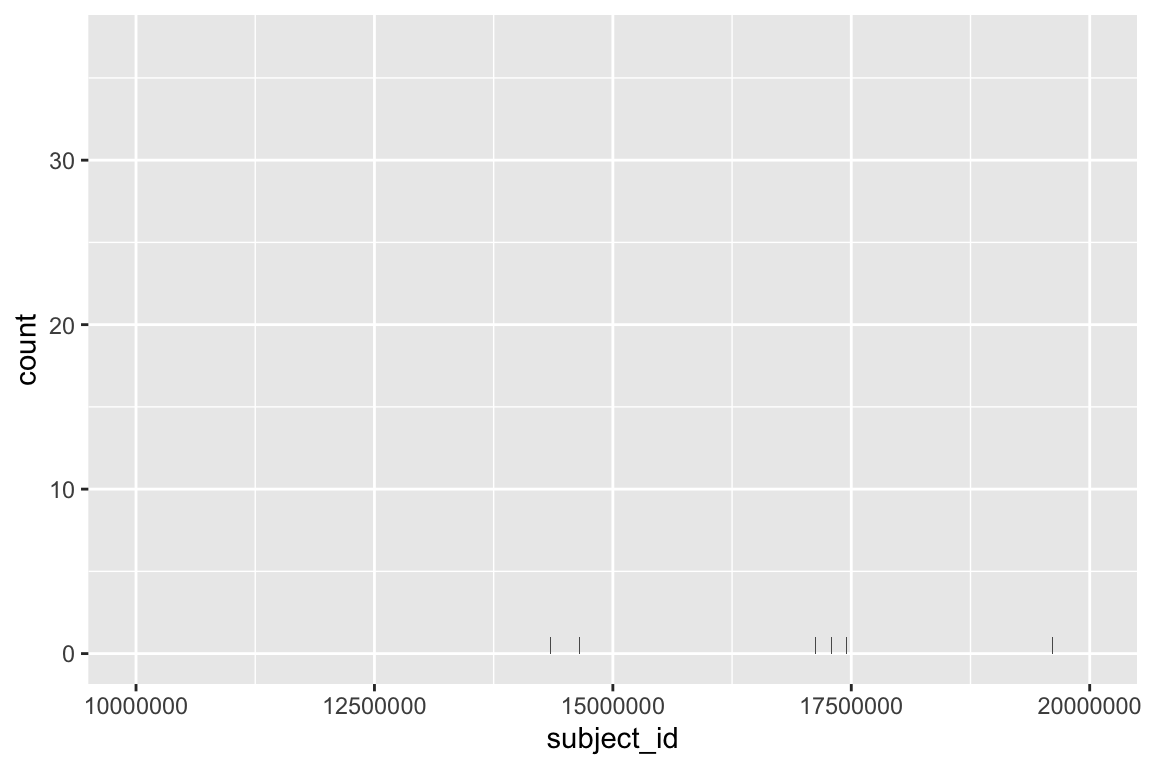
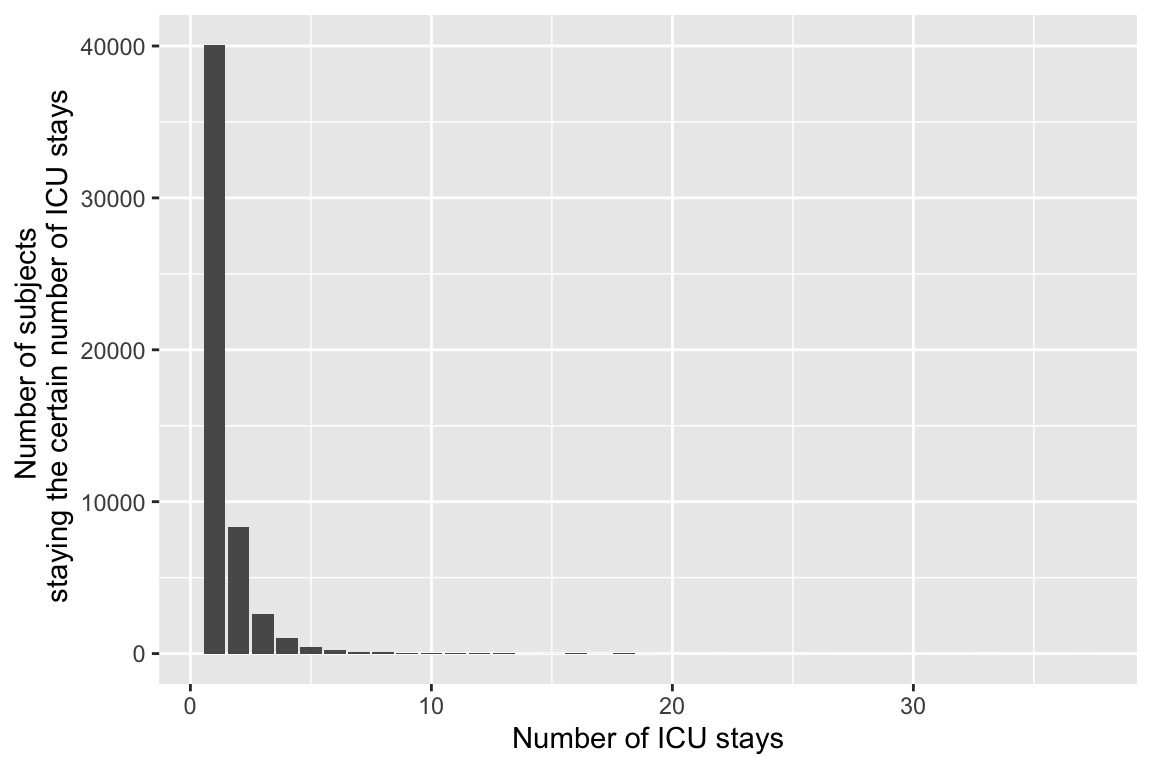
hw2 v2.1 Updating html and files folder

diff --git a/hw2/hw2-qmd.html b/hw2/hw2-qmd.html
@@ -255,24 +255,24 @@ loaded via a namespace (and not attached):
 <div class="sourceCode cell-code" id="cb13"><pre class="sourceCode r code-with-copy"><code class="sourceCode r"><span id="cb13-1"><a href="#cb13-1" aria-hidden="true" tabindex="-1"></a><span class="fu">system.time</span>(ad1 <span class="ot">&lt;-</span> <span class="fu">read.csv</span>(<span class="st">"~/mimic/core/admissions.csv.gz"</span>))</span></code><button title="Copy to Clipboard" class="code-copy-button"><i class="bi"></i></button></pre></div>
 <div class="cell-output cell-output-stdout">
 <pre><code>   user  system elapsed 
-  9.618   0.248   9.954 </code></pre>
+ 10.627   0.255  10.927 </code></pre>
 </div>
 </div>
 <div class="cell" data-layout-align="center">
 <div class="sourceCode cell-code" id="cb15"><pre class="sourceCode r code-with-copy"><code class="sourceCode r"><span id="cb15-1"><a href="#cb15-1" aria-hidden="true" tabindex="-1"></a><span class="fu">system.time</span>(ad2 <span class="ot">&lt;-</span> <span class="fu">read_csv</span>(<span class="st">"~/mimic/core/admissions.csv.gz"</span>))</span></code><button title="Copy to Clipboard" class="code-copy-button"><i class="bi"></i></button></pre></div>
 <div class="cell-output cell-output-stdout">
 <pre><code>   user  system elapsed 
-  2.554   0.616   1.225 </code></pre>
+  3.835   0.988   1.836 </code></pre>
 </div>
 </div>
 <div class="cell" data-layout-align="center">
 <div class="sourceCode cell-code" id="cb17"><pre class="sourceCode r code-with-copy"><code class="sourceCode r"><span id="cb17-1"><a href="#cb17-1" aria-hidden="true" tabindex="-1"></a><span class="fu">system.time</span>(ad3 <span class="ot">&lt;-</span> <span class="fu">fread</span>(<span class="st">"~/mimic/core/admissions.csv.gz"</span>))</span></code><button title="Copy to Clipboard" class="code-copy-button"><i class="bi"></i></button></pre></div>
 <div class="cell-output cell-output-stdout">
 <pre><code>   user  system elapsed 
-  0.806   0.266   1.110 </code></pre>
+  1.077   0.387   1.511 </code></pre>
 </div>
 </div>
-<p><code>fread</code> is the fastest function. “Is there difference in the (default) parsed data types?”</p>
+<p><code>fread</code> is the fastest function. “Is there difference in the (default) parsed data types?” This question means if the data type of each column is different when the dataset is imported through different methods.</p>
 </section>
 <section id="q2.-icu-stays" class="level2" data-number="2">
 <h2 data-number="2" class="anchored" data-anchor-id="q2.-icu-stays"><span class="header-section-number">2</span> Q2. ICU stays</h2>
@@ -330,12 +330,38 @@ loaded via a namespace (and not attached):
 <li>Summarize the number of ICU stays per <code>subject_id</code> by graphs.</li>
 </ol>
 <div class="cell" data-layout-align="center">
-<div class="sourceCode cell-code" id="cb26"><pre class="sourceCode r code-with-copy"><code class="sourceCode r"><span id="cb26-1"><a href="#cb26-1" aria-hidden="true" tabindex="-1"></a><span class="fu">ggplot</span>(<span class="at">data =</span> icustays_tble) <span class="sc">+</span> </span>
-<span id="cb26-2"><a href="#cb26-2" aria-hidden="true" tabindex="-1"></a>  <span class="fu">geom_bar</span>(<span class="at">mapping =</span> <span class="fu">aes</span>(<span class="at">x =</span> subject_id))</span></code><button title="Copy to Clipboard" class="code-copy-button"><i class="bi"></i></button></pre></div>
+<div class="sourceCode cell-code" id="cb26"><pre class="sourceCode r code-with-copy"><code class="sourceCode r"><span id="cb26-1"><a href="#cb26-1" aria-hidden="true" tabindex="-1"></a>stays <span class="ot">&lt;-</span> icustays_tble <span class="sc">%&gt;%</span></span>
+<span id="cb26-2"><a href="#cb26-2" aria-hidden="true" tabindex="-1"></a>  <span class="fu">group_by</span>(subject_id) <span class="sc">%&gt;%</span></span>
+<span id="cb26-3"><a href="#cb26-3" aria-hidden="true" tabindex="-1"></a>  <span class="fu">summarize</span>(<span class="at">stay_count =</span> <span class="fu">n</span>()) </span>
+<span id="cb26-4"><a href="#cb26-4" aria-hidden="true" tabindex="-1"></a></span>
+<span id="cb26-5"><a href="#cb26-5" aria-hidden="true" tabindex="-1"></a><span class="fu">ggplot</span>(<span class="at">data =</span> stays) <span class="sc">+</span> </span>
+<span id="cb26-6"><a href="#cb26-6" aria-hidden="true" tabindex="-1"></a>  <span class="fu">geom_bar</span>(<span class="at">mapping =</span> <span class="fu">aes</span>(<span class="at">x =</span> stay_count)) <span class="sc">+</span></span>
+<span id="cb26-7"><a href="#cb26-7" aria-hidden="true" tabindex="-1"></a>  <span class="fu">xlab</span>(<span class="st">"Number of ICU stays"</span>) <span class="sc">+</span></span>
+<span id="cb26-8"><a href="#cb26-8" aria-hidden="true" tabindex="-1"></a>  <span class="fu">ylab</span>(<span class="st">"Number of subjects </span><span class="sc">\n</span><span class="st"> staying the certain number of ICU stays"</span>) </span></code><button title="Copy to Clipboard" class="code-copy-button"><i class="bi"></i></button></pre></div>
 <div class="cell-output-display">
 <div class="quarto-figure quarto-figure-center">
 <figure class="figure">
 <p><img src="hw2-qmd_files/figure-html/unnamed-chunk-11-1.png" class="img-fluid figure-img" width="576"></p>
+</figure>
+</div>
+</div>
+</div>
+<p>Since the majority of subjects only had one ICU stay, it is hard to see those with more stay on the graph.</p>
+<p>I thus also tried showing the actual numbers of subjects having certain number of ICU stays on top of each bar in the histogram, but the result is not very pretty either (but at least we can see those having a large number of stays):</p>
+<div class="cell" data-layout-align="center">
+<div class="sourceCode cell-code" id="cb27"><pre class="sourceCode r code-with-copy"><code class="sourceCode r"><span id="cb27-1"><a href="#cb27-1" aria-hidden="true" tabindex="-1"></a>count <span class="ot">&lt;-</span> stays <span class="sc">%&gt;%</span> </span>
+<span id="cb27-2"><a href="#cb27-2" aria-hidden="true" tabindex="-1"></a>  <span class="fu">group_by</span>(stay_count) <span class="sc">%&gt;%</span></span>
+<span id="cb27-3"><a href="#cb27-3" aria-hidden="true" tabindex="-1"></a>  <span class="fu">summarize</span>(<span class="at">subject_count =</span> <span class="fu">n</span>())</span>
+<span id="cb27-4"><a href="#cb27-4" aria-hidden="true" tabindex="-1"></a></span>
+<span id="cb27-5"><a href="#cb27-5" aria-hidden="true" tabindex="-1"></a><span class="fu">ggplot</span>(count, <span class="fu">aes</span>(<span class="at">x =</span> stay_count, <span class="at">y =</span> subject_count)) <span class="sc">+</span></span>
+<span id="cb27-6"><a href="#cb27-6" aria-hidden="true" tabindex="-1"></a>  <span class="fu">geom_bar</span>(<span class="at">stat =</span> <span class="st">"identity"</span>) <span class="sc">+</span></span>
+<span id="cb27-7"><a href="#cb27-7" aria-hidden="true" tabindex="-1"></a>  <span class="fu">geom_text</span>(<span class="fu">aes</span>(<span class="at">label =</span> subject_count, <span class="at">vjust =</span> <span class="sc">-</span><span class="fl">0.25</span>)) <span class="sc">+</span></span>
+<span id="cb27-8"><a href="#cb27-8" aria-hidden="true" tabindex="-1"></a>  <span class="fu">xlab</span>(<span class="st">"Number of ICU stays"</span>) <span class="sc">+</span></span>
+<span id="cb27-9"><a href="#cb27-9" aria-hidden="true" tabindex="-1"></a>  <span class="fu">ylab</span>(<span class="st">"Number of subjects </span><span class="sc">\n</span><span class="st"> staying the certain number of ICU stays"</span>)</span></code><button title="Copy to Clipboard" class="code-copy-button"><i class="bi"></i></button></pre></div>
+<div class="cell-output-display">
+<div class="quarto-figure quarto-figure-center">
+<figure class="figure">
+<p><img src="hw2-qmd_files/figure-html/unnamed-chunk-12-1.png" class="img-fluid figure-img" width="576"></p>
 </figure>
 </div>
 </div>
@@ -348,14 +374,14 @@ loaded via a namespace (and not attached):
 <h2 data-number="3" class="anchored" data-anchor-id="q3.-admission-data"><span class="header-section-number">3</span> Q3. <code>admission</code> data</h2>
 <p>Information of the patients admitted into hospital is available in <code>admissions.csv.gz</code>. See <a href="https://mimic.mit.edu/docs/iv/modules/core/admissions/" class="uri">https://mimic.mit.edu/docs/iv/modules/core/admissions/</a> for details of each field in this file. The first 10 lines are</p>
 <div class="cell" data-layout-align="center">
-<div class="sourceCode cell-code" id="cb27"><pre class="sourceCode r code-with-copy"><code class="sourceCode r"><span id="cb27-1"><a href="#cb27-1" aria-hidden="true" tabindex="-1"></a><span class="fu">system</span>(</span>
-<span id="cb27-2"><a href="#cb27-2" aria-hidden="true" tabindex="-1"></a>  <span class="fu">str_c</span>(</span>
-<span id="cb27-3"><a href="#cb27-3" aria-hidden="true" tabindex="-1"></a>    <span class="st">"zcat &lt; "</span>, </span>
-<span id="cb27-4"><a href="#cb27-4" aria-hidden="true" tabindex="-1"></a>    <span class="fu">str_c</span>(mimic_path, <span class="st">"/core/admissions.csv.gz"</span>), </span>
-<span id="cb27-5"><a href="#cb27-5" aria-hidden="true" tabindex="-1"></a>    <span class="st">" | head"</span></span>
-<span id="cb27-6"><a href="#cb27-6" aria-hidden="true" tabindex="-1"></a>    ), </span>
-<span id="cb27-7"><a href="#cb27-7" aria-hidden="true" tabindex="-1"></a>  <span class="at">intern =</span> <span class="cn">TRUE</span></span>
-<span id="cb27-8"><a href="#cb27-8" aria-hidden="true" tabindex="-1"></a>)</span></code><button title="Copy to Clipboard" class="code-copy-button"><i class="bi"></i></button></pre></div>
+<div class="sourceCode cell-code" id="cb28"><pre class="sourceCode r code-with-copy"><code class="sourceCode r"><span id="cb28-1"><a href="#cb28-1" aria-hidden="true" tabindex="-1"></a><span class="fu">system</span>(</span>
+<span id="cb28-2"><a href="#cb28-2" aria-hidden="true" tabindex="-1"></a>  <span class="fu">str_c</span>(</span>
+<span id="cb28-3"><a href="#cb28-3" aria-hidden="true" tabindex="-1"></a>    <span class="st">"zcat &lt; "</span>, </span>
+<span id="cb28-4"><a href="#cb28-4" aria-hidden="true" tabindex="-1"></a>    <span class="fu">str_c</span>(mimic_path, <span class="st">"/core/admissions.csv.gz"</span>), </span>
+<span id="cb28-5"><a href="#cb28-5" aria-hidden="true" tabindex="-1"></a>    <span class="st">" | head"</span></span>
+<span id="cb28-6"><a href="#cb28-6" aria-hidden="true" tabindex="-1"></a>    ), </span>
+<span id="cb28-7"><a href="#cb28-7" aria-hidden="true" tabindex="-1"></a>  <span class="at">intern =</span> <span class="cn">TRUE</span></span>
+<span id="cb28-8"><a href="#cb28-8" aria-hidden="true" tabindex="-1"></a>)</span></code><button title="Copy to Clipboard" class="code-copy-button"><i class="bi"></i></button></pre></div>
 <div class="cell-output cell-output-stdout">
 <pre><code> [1] "subject_id,hadm_id,admittime,dischtime,deathtime,admission_type,admission_location,discharge_location,insurance,language,marital_status,ethnicity,edregtime,edouttime,hospital_expire_flag"
  [2] "14679932,21038362,2139-09-26 14:16:00,2139-09-28 11:30:00,,ELECTIVE,,HOME,Other,ENGLISH,SINGLE,UNKNOWN,,,0"                                                                                
@@ -370,7 +396,12 @@ loaded via a namespace (and not attached):
 </div>
 </div>
 <ol type="1">
-<li><p>Import <code>admissions.csv.gz</code> as a tibble <code>admissions_tble</code>.</p></li>
+<li>Import <code>admissions.csv.gz</code> as a tibble <code>admissions_tble</code>.</li>
+</ol>
+<div class="cell" data-layout-align="center">
+<div class="sourceCode cell-code" id="cb30"><pre class="sourceCode r code-with-copy"><code class="sourceCode r"><span id="cb30-1"><a href="#cb30-1" aria-hidden="true" tabindex="-1"></a>admissions_tble <span class="ot">&lt;-</span> <span class="fu">read_csv</span>(<span class="st">"~/mimic/core/admissions.csv.gz"</span>)</span></code><button title="Copy to Clipboard" class="code-copy-button"><i class="bi"></i></button></pre></div>
+</div>
+<ol start="2" type="1">
 <li><p>Let’s only keep the admissions that have a match in <code>icustays_tble</code> according to <code>subject_id</code> and <code>hadmi_id</code>.</p></li>
 <li><p>Summarize the following variables by graphics.</p>
 <ul>
@@ -394,14 +425,14 @@ loaded via a namespace (and not attached):
 <h2 data-number="4" class="anchored" data-anchor-id="q4.-patients-data"><span class="header-section-number">4</span> Q4. <code>patients</code> data</h2>
 <p>Patient information is available in <code>patients.csv.gz</code>. See <a href="https://mimic.mit.edu/docs/iv/modules/core/patients/" class="uri">https://mimic.mit.edu/docs/iv/modules/core/patients/</a> for details of each field in this file. The first 10 lines are</p>
 <div class="cell" data-layout-align="center">
-<div class="sourceCode cell-code" id="cb29"><pre class="sourceCode r code-with-copy"><code class="sourceCode r"><span id="cb29-1"><a href="#cb29-1" aria-hidden="true" tabindex="-1"></a><span class="fu">system</span>(</span>
-<span id="cb29-2"><a href="#cb29-2" aria-hidden="true" tabindex="-1"></a>  <span class="fu">str_c</span>(</span>
-<span id="cb29-3"><a href="#cb29-3" aria-hidden="true" tabindex="-1"></a>    <span class="st">"zcat &lt; "</span>, </span>
-<span id="cb29-4"><a href="#cb29-4" aria-hidden="true" tabindex="-1"></a>    <span class="fu">str_c</span>(mimic_path, <span class="st">"/core/patients.csv.gz"</span>), </span>
-<span id="cb29-5"><a href="#cb29-5" aria-hidden="true" tabindex="-1"></a>    <span class="st">" | head"</span></span>
-<span id="cb29-6"><a href="#cb29-6" aria-hidden="true" tabindex="-1"></a>    ), </span>
-<span id="cb29-7"><a href="#cb29-7" aria-hidden="true" tabindex="-1"></a>  <span class="at">intern =</span> <span class="cn">TRUE</span></span>
-<span id="cb29-8"><a href="#cb29-8" aria-hidden="true" tabindex="-1"></a>)</span></code><button title="Copy to Clipboard" class="code-copy-button"><i class="bi"></i></button></pre></div>
+<div class="sourceCode cell-code" id="cb31"><pre class="sourceCode r code-with-copy"><code class="sourceCode r"><span id="cb31-1"><a href="#cb31-1" aria-hidden="true" tabindex="-1"></a><span class="fu">system</span>(</span>
+<span id="cb31-2"><a href="#cb31-2" aria-hidden="true" tabindex="-1"></a>  <span class="fu">str_c</span>(</span>
+<span id="cb31-3"><a href="#cb31-3" aria-hidden="true" tabindex="-1"></a>    <span class="st">"zcat &lt; "</span>, </span>
+<span id="cb31-4"><a href="#cb31-4" aria-hidden="true" tabindex="-1"></a>    <span class="fu">str_c</span>(mimic_path, <span class="st">"/core/patients.csv.gz"</span>), </span>
+<span id="cb31-5"><a href="#cb31-5" aria-hidden="true" tabindex="-1"></a>    <span class="st">" | head"</span></span>
+<span id="cb31-6"><a href="#cb31-6" aria-hidden="true" tabindex="-1"></a>    ), </span>
+<span id="cb31-7"><a href="#cb31-7" aria-hidden="true" tabindex="-1"></a>  <span class="at">intern =</span> <span class="cn">TRUE</span></span>
+<span id="cb31-8"><a href="#cb31-8" aria-hidden="true" tabindex="-1"></a>)</span></code><button title="Copy to Clipboard" class="code-copy-button"><i class="bi"></i></button></pre></div>
 <div class="cell-output cell-output-stdout">
 <pre><code> [1] "subject_id,gender,anchor_age,anchor_year,anchor_year_group,dod"
  [2] "10000048,F,23,2126,2008 - 2010,"                               
@@ -424,14 +455,14 @@ loaded via a namespace (and not attached):
 <h2 data-number="5" class="anchored" data-anchor-id="q5.-lab-results"><span class="header-section-number">5</span> Q5. Lab results</h2>
 <p><code>labevents.csv.gz</code> (<a href="https://mimic.mit.edu/docs/iv/modules/hosp/labevents/" class="uri">https://mimic.mit.edu/docs/iv/modules/hosp/labevents/</a>) contains all laboratory measurements for patients. The first 10 lines are</p>
 <div class="cell" data-layout-align="center">
-<div class="sourceCode cell-code" id="cb31"><pre class="sourceCode r code-with-copy"><code class="sourceCode r"><span id="cb31-1"><a href="#cb31-1" aria-hidden="true" tabindex="-1"></a><span class="fu">system</span>(</span>
-<span id="cb31-2"><a href="#cb31-2" aria-hidden="true" tabindex="-1"></a>  <span class="fu">str_c</span>(</span>
-<span id="cb31-3"><a href="#cb31-3" aria-hidden="true" tabindex="-1"></a>    <span class="st">"zcat &lt; "</span>, </span>
-<span id="cb31-4"><a href="#cb31-4" aria-hidden="true" tabindex="-1"></a>    <span class="fu">str_c</span>(mimic_path, <span class="st">"/hosp/labevents.csv.gz"</span>), </span>
-<span id="cb31-5"><a href="#cb31-5" aria-hidden="true" tabindex="-1"></a>    <span class="st">" | head"</span></span>
-<span id="cb31-6"><a href="#cb31-6" aria-hidden="true" tabindex="-1"></a>    ), </span>
-<span id="cb31-7"><a href="#cb31-7" aria-hidden="true" tabindex="-1"></a>  <span class="at">intern =</span> <span class="cn">TRUE</span></span>
-<span id="cb31-8"><a href="#cb31-8" aria-hidden="true" tabindex="-1"></a>)</span></code><button title="Copy to Clipboard" class="code-copy-button"><i class="bi"></i></button></pre></div>
+<div class="sourceCode cell-code" id="cb33"><pre class="sourceCode r code-with-copy"><code class="sourceCode r"><span id="cb33-1"><a href="#cb33-1" aria-hidden="true" tabindex="-1"></a><span class="fu">system</span>(</span>
+<span id="cb33-2"><a href="#cb33-2" aria-hidden="true" tabindex="-1"></a>  <span class="fu">str_c</span>(</span>
+<span id="cb33-3"><a href="#cb33-3" aria-hidden="true" tabindex="-1"></a>    <span class="st">"zcat &lt; "</span>, </span>
+<span id="cb33-4"><a href="#cb33-4" aria-hidden="true" tabindex="-1"></a>    <span class="fu">str_c</span>(mimic_path, <span class="st">"/hosp/labevents.csv.gz"</span>), </span>
+<span id="cb33-5"><a href="#cb33-5" aria-hidden="true" tabindex="-1"></a>    <span class="st">" | head"</span></span>
+<span id="cb33-6"><a href="#cb33-6" aria-hidden="true" tabindex="-1"></a>    ), </span>
+<span id="cb33-7"><a href="#cb33-7" aria-hidden="true" tabindex="-1"></a>  <span class="at">intern =</span> <span class="cn">TRUE</span></span>
+<span id="cb33-8"><a href="#cb33-8" aria-hidden="true" tabindex="-1"></a>)</span></code><button title="Copy to Clipboard" class="code-copy-button"><i class="bi"></i></button></pre></div>
 <div class="cell-output cell-output-stdout">
 <pre><code> [1] "labevent_id,subject_id,hadm_id,specimen_id,itemid,charttime,storetime,value,valuenum,valueuom,ref_range_lower,ref_range_upper,flag,priority,comments"
  [2] "670,10000048,,6448755,51484,2126-11-22 19:20:00,2126-11-22 20:07:00,150,150,mg/dL,,,,STAT,"                                                          
@@ -447,14 +478,14 @@ loaded via a namespace (and not attached):
 </div>
 <p><code>d_labitems.csv.gz</code> is the dictionary of lab measurements.</p>
 <div class="cell" data-layout-align="center">
-<div class="sourceCode cell-code" id="cb33"><pre class="sourceCode r code-with-copy"><code class="sourceCode r"><span id="cb33-1"><a href="#cb33-1" aria-hidden="true" tabindex="-1"></a><span class="fu">system</span>(</span>
-<span id="cb33-2"><a href="#cb33-2" aria-hidden="true" tabindex="-1"></a>  <span class="fu">str_c</span>(</span>
-<span id="cb33-3"><a href="#cb33-3" aria-hidden="true" tabindex="-1"></a>    <span class="st">"zcat &lt; "</span>, </span>
-<span id="cb33-4"><a href="#cb33-4" aria-hidden="true" tabindex="-1"></a>    <span class="fu">str_c</span>(mimic_path, <span class="st">"/hosp/d_labitems.csv.gz"</span>), </span>
-<span id="cb33-5"><a href="#cb33-5" aria-hidden="true" tabindex="-1"></a>    <span class="st">" | head"</span></span>
-<span id="cb33-6"><a href="#cb33-6" aria-hidden="true" tabindex="-1"></a>    ), </span>
-<span id="cb33-7"><a href="#cb33-7" aria-hidden="true" tabindex="-1"></a>  <span class="at">intern =</span> <span class="cn">TRUE</span></span>
-<span id="cb33-8"><a href="#cb33-8" aria-hidden="true" tabindex="-1"></a>)</span></code><button title="Copy to Clipboard" class="code-copy-button"><i class="bi"></i></button></pre></div>
+<div class="sourceCode cell-code" id="cb35"><pre class="sourceCode r code-with-copy"><code class="sourceCode r"><span id="cb35-1"><a href="#cb35-1" aria-hidden="true" tabindex="-1"></a><span class="fu">system</span>(</span>
+<span id="cb35-2"><a href="#cb35-2" aria-hidden="true" tabindex="-1"></a>  <span class="fu">str_c</span>(</span>
+<span id="cb35-3"><a href="#cb35-3" aria-hidden="true" tabindex="-1"></a>    <span class="st">"zcat &lt; "</span>, </span>
+<span id="cb35-4"><a href="#cb35-4" aria-hidden="true" tabindex="-1"></a>    <span class="fu">str_c</span>(mimic_path, <span class="st">"/hosp/d_labitems.csv.gz"</span>), </span>
+<span id="cb35-5"><a href="#cb35-5" aria-hidden="true" tabindex="-1"></a>    <span class="st">" | head"</span></span>
+<span id="cb35-6"><a href="#cb35-6" aria-hidden="true" tabindex="-1"></a>    ), </span>
+<span id="cb35-7"><a href="#cb35-7" aria-hidden="true" tabindex="-1"></a>  <span class="at">intern =</span> <span class="cn">TRUE</span></span>
+<span id="cb35-8"><a href="#cb35-8" aria-hidden="true" tabindex="-1"></a>)</span></code><button title="Copy to Clipboard" class="code-copy-button"><i class="bi"></i></button></pre></div>
 <div class="cell-output cell-output-stdout">
 <pre><code> [1] "itemid,label,fluid,category,loinc_code"           
  [2] "51905, ,Other Body Fluid,Chemistry,"              
@@ -480,13 +511,13 @@ loaded via a namespace (and not attached):
 <h2 data-number="6" class="anchored" data-anchor-id="q6.-vitals-from-charted-events"><span class="header-section-number">6</span> Q6. Vitals from charted events</h2>
 <p><code>chartevents.csv.gz</code> (<a href="https://mimic.mit.edu/docs/iv/modules/icu/chartevents/" class="uri">https://mimic.mit.edu/docs/iv/modules/icu/chartevents/</a>) contains all the charted data available for a patient. During their ICU stay, the primary repository of a patient’s information is their electronic chart. The <code>itemid</code> variable indicates a single measurement type in the database. The <code>value</code> variable is the value measured for <code>itemid</code>. The first 10 lines of <code>chartevents.csv.gz</code> are</p>
 <div class="cell" data-layout-align="center">
-<div class="sourceCode cell-code" id="cb35"><pre class="sourceCode r code-with-copy"><code class="sourceCode r"><span id="cb35-1"><a href="#cb35-1" aria-hidden="true" tabindex="-1"></a><span class="fu">system</span>(</span>
-<span id="cb35-2"><a href="#cb35-2" aria-hidden="true" tabindex="-1"></a>  <span class="fu">str_c</span>(</span>
-<span id="cb35-3"><a href="#cb35-3" aria-hidden="true" tabindex="-1"></a>    <span class="st">"zcat &lt; "</span>, </span>
-<span id="cb35-4"><a href="#cb35-4" aria-hidden="true" tabindex="-1"></a>    <span class="fu">str_c</span>(mimic_path, <span class="st">"/icu/chartevents.csv.gz"</span>), </span>
-<span id="cb35-5"><a href="#cb35-5" aria-hidden="true" tabindex="-1"></a>    <span class="st">" | head"</span>), </span>
-<span id="cb35-6"><a href="#cb35-6" aria-hidden="true" tabindex="-1"></a>  <span class="at">intern =</span> <span class="cn">TRUE</span></span>
-<span id="cb35-7"><a href="#cb35-7" aria-hidden="true" tabindex="-1"></a>)</span></code><button title="Copy to Clipboard" class="code-copy-button"><i class="bi"></i></button></pre></div>
+<div class="sourceCode cell-code" id="cb37"><pre class="sourceCode r code-with-copy"><code class="sourceCode r"><span id="cb37-1"><a href="#cb37-1" aria-hidden="true" tabindex="-1"></a><span class="fu">system</span>(</span>
+<span id="cb37-2"><a href="#cb37-2" aria-hidden="true" tabindex="-1"></a>  <span class="fu">str_c</span>(</span>
+<span id="cb37-3"><a href="#cb37-3" aria-hidden="true" tabindex="-1"></a>    <span class="st">"zcat &lt; "</span>, </span>
+<span id="cb37-4"><a href="#cb37-4" aria-hidden="true" tabindex="-1"></a>    <span class="fu">str_c</span>(mimic_path, <span class="st">"/icu/chartevents.csv.gz"</span>), </span>
+<span id="cb37-5"><a href="#cb37-5" aria-hidden="true" tabindex="-1"></a>    <span class="st">" | head"</span>), </span>
+<span id="cb37-6"><a href="#cb37-6" aria-hidden="true" tabindex="-1"></a>  <span class="at">intern =</span> <span class="cn">TRUE</span></span>
+<span id="cb37-7"><a href="#cb37-7" aria-hidden="true" tabindex="-1"></a>)</span></code><button title="Copy to Clipboard" class="code-copy-button"><i class="bi"></i></button></pre></div>
 <div class="cell-output cell-output-stdout">
 <pre><code> [1] "subject_id,hadm_id,stay_id,charttime,storetime,itemid,value,valuenum,valueuom,warning"
  [2] "10003700,28623837,30600691,2165-04-24 05:10:00,2165-04-24 05:11:00,228236,0,0,,0"     
@@ -502,13 +533,13 @@ loaded via a namespace (and not attached):
 </div>
 <p><code>d_items.csv.gz</code> (<a href="https://mimic.mit.edu/docs/iv/modules/icu/d_items/" class="uri">https://mimic.mit.edu/docs/iv/modules/icu/d_items/</a>) is the dictionary for the <code>itemid</code> in <code>chartevents.csv.gz</code>.</p>
 <div class="cell" data-layout-align="center">
-<div class="sourceCode cell-code" id="cb37"><pre class="sourceCode r code-with-copy"><code class="sourceCode r"><span id="cb37-1"><a href="#cb37-1" aria-hidden="true" tabindex="-1"></a><span class="fu">system</span>(</span>
-<span id="cb37-2"><a href="#cb37-2" aria-hidden="true" tabindex="-1"></a>  <span class="fu">str_c</span>(</span>
-<span id="cb37-3"><a href="#cb37-3" aria-hidden="true" tabindex="-1"></a>    <span class="st">"zcat &lt; "</span>, </span>
-<span id="cb37-4"><a href="#cb37-4" aria-hidden="true" tabindex="-1"></a>    <span class="fu">str_c</span>(mimic_path, <span class="st">"/icu/d_items.csv.gz"</span>), </span>
-<span id="cb37-5"><a href="#cb37-5" aria-hidden="true" tabindex="-1"></a>    <span class="st">" | head"</span>), </span>
-<span id="cb37-6"><a href="#cb37-6" aria-hidden="true" tabindex="-1"></a>  <span class="at">intern =</span> <span class="cn">TRUE</span></span>
-<span id="cb37-7"><a href="#cb37-7" aria-hidden="true" tabindex="-1"></a>)</span></code><button title="Copy to Clipboard" class="code-copy-button"><i class="bi"></i></button></pre></div>
+<div class="sourceCode cell-code" id="cb39"><pre class="sourceCode r code-with-copy"><code class="sourceCode r"><span id="cb39-1"><a href="#cb39-1" aria-hidden="true" tabindex="-1"></a><span class="fu">system</span>(</span>
+<span id="cb39-2"><a href="#cb39-2" aria-hidden="true" tabindex="-1"></a>  <span class="fu">str_c</span>(</span>
+<span id="cb39-3"><a href="#cb39-3" aria-hidden="true" tabindex="-1"></a>    <span class="st">"zcat &lt; "</span>, </span>
+<span id="cb39-4"><a href="#cb39-4" aria-hidden="true" tabindex="-1"></a>    <span class="fu">str_c</span>(mimic_path, <span class="st">"/icu/d_items.csv.gz"</span>), </span>
+<span id="cb39-5"><a href="#cb39-5" aria-hidden="true" tabindex="-1"></a>    <span class="st">" | head"</span>), </span>
+<span id="cb39-6"><a href="#cb39-6" aria-hidden="true" tabindex="-1"></a>  <span class="at">intern =</span> <span class="cn">TRUE</span></span>
+<span id="cb39-7"><a href="#cb39-7" aria-hidden="true" tabindex="-1"></a>)</span></code><button title="Copy to Clipboard" class="code-copy-button"><i class="bi"></i></button></pre></div>
 <div class="cell-output cell-output-stdout">
 <pre><code> [1] "itemid,label,abbreviation,linksto,category,unitname,param_type,lownormalvalue,highnormalvalue"   
  [2] "220003,ICU Admission date,ICU Admission date,datetimeevents,ADT,,Date and time,,"                
@@ -524,7 +555,7 @@ loaded via a namespace (and not attached):
 </div>
 <ol type="1">
 <li><p>We are interested in the vitals for ICU patients: heart rate (220045), mean non-invasive blood pressure (220181), systolic non-invasive blood pressure (220179), body temperature in Fahrenheit (223761), and respiratory rate (220210). Retrieve a subset of <code>chartevents.csv.gz</code> only containing these items for the patients in <code>icustays_tble</code> as a tibble <code>chartevents_tble</code>.</p>
-<p>Hint: <code>chartevents.csv.gz</code> is a data file too big to be read in by the <code>read_csv</code> function in its default setting. Utilize the <code>col_select</code> option in the <code>read_csv</code> function to reduce the memory burden. It took my computer &gt;15 minutes to ingest this file. If your computer really has trouble importing <code>labevents.csv.gz</code>, you can import from the reduced data file <code>chartevents_filtered_itemid.csv.gz</code>.</p></li>
+<p>Hint: <code>chartevents.csv.gz</code> is a data file too big to be read in by the <code>read_csv</code> function in its default setting. Utilize the <code>col_select</code> option in the <code>read_csv</code> function to reduce the memory burden. It took my computer &gt;15 minutes to ingest this file. If your computer really has trouble importing <code>chartevents.csv.gz</code>, you can import from the reduced data file <code>chartevents_filtered_itemid.csv.gz</code>.</p></li>
 <li><p>Further restrict <code>chartevents_tble</code> to the first vital measurement during the ICU stay.</p></li>
 <li><p>Summarize these vital measurements by appropriate numerics and graphics.</p></li>
 </ol>
